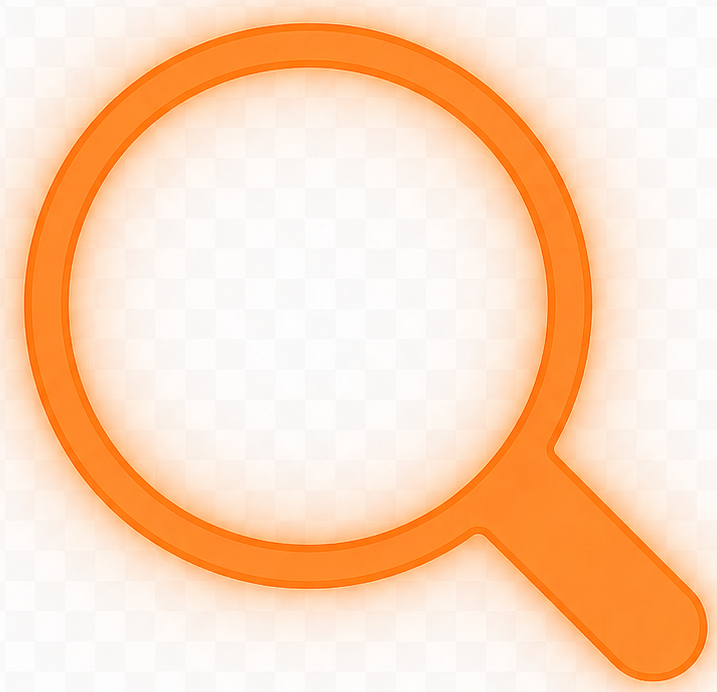
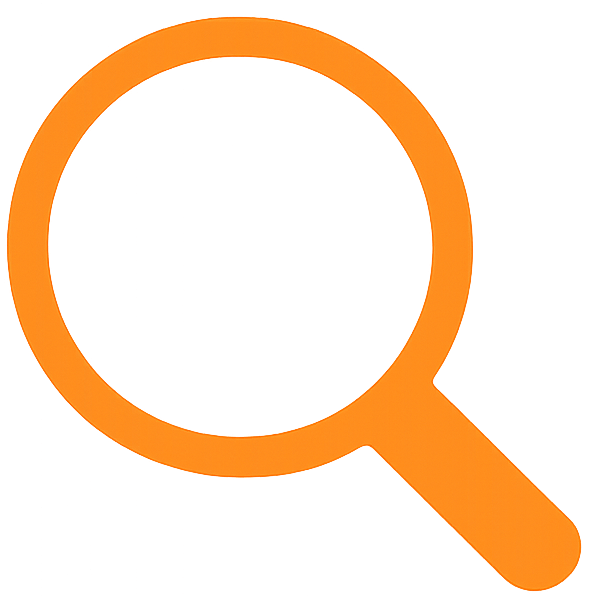
fix: filtre advanced full width + loupe background transparent

diff --git a/static/index.html b/static/index.html
@@ -276,16 +276,28 @@ body {
 }
 
 #premiumScreen {
-    padding: calc(env(safe-area-inset-top, 0px) + 70px) 0 30px !important;
+    position: fixed;
+    top: 0;
+    left: 0;
+    right: 0;
+    bottom: calc(90px + env(safe-area-inset-bottom, 0px));
+
+    width: 100vw;
+    overflow-y: auto;
+    -webkit-overflow-scrolling: touch;
+
+    padding: calc(env(safe-area-inset-top, 0px) + 70px) 8px 30px !important;
     box-sizing: border-box;
+
+    background: linear-gradient(135deg, #ff7e00, #ffb347);
 }
 
 #premiumScreen .screen-box {
     width: 100% !important;
     max-width: none !important;
-    margin: 0 !important;
+    margin: 0 auto 20px !important;
     padding: 42px 16px;
-    border-radius: 0;
+    border-radius: 24px;
     box-sizing: border-box;
 }
 